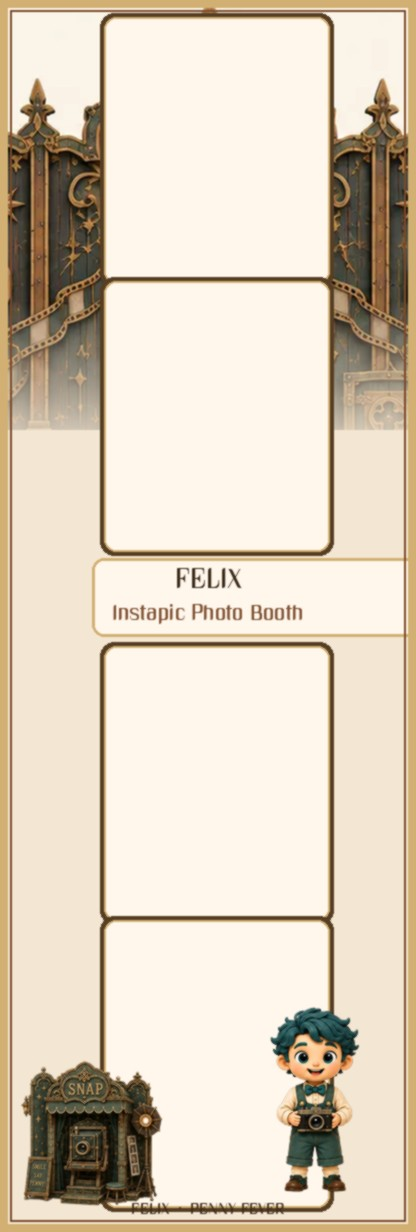
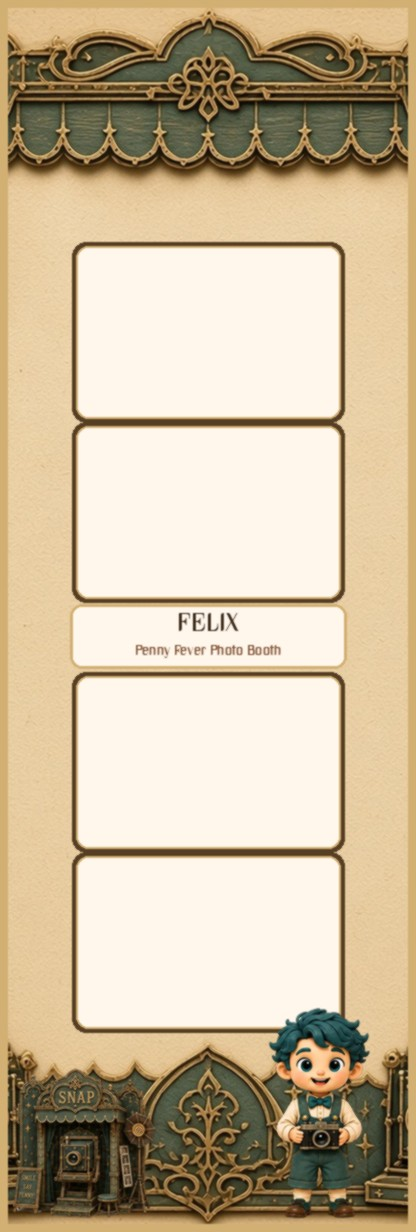
Penny Fever: one Felix set, game paper, paper player
Skip the 11-set picker so the booth loads one SNAP background. Souvenir strips sit on a Felix-game paper. Oliver the paper player fills a whole session without a camera (button or ?paper=1).

diff --git a/penny-fever/paper-games/workshop/felix-booth.js b/penny-fever/paper-games/workshop/felix-booth.js
@@ -16,7 +16,7 @@
     ERROR: "ERROR",
   };
 
-  let FREE_BGS = ["pf-felix", "pf-iris", "pf-aura"];
+  let FREE_BGS = ["pf-felix"];
   let carnivalSets = [];
   const carnivalById = Object.create(null);
   function carnivalSpec(id) { return carnivalById[id] || null; }
@@ -29,6 +29,8 @@
     return (spec && spec.strip) || ("backgrounds/carnival/" + id + ".jpg");
   }
   const TRY_SAMPLE_ID = "pf-felix";
+  const boothParams = new URLSearchParams(location.search);
+  const wantPaperPlayer = boothParams.has("paper") || boothParams.get("bot") === "1";
   // Felix strip layout's left column on the 784×1186 design grid.
   const STRIP_SLOTS_LEFT = [
     [100, 18, 208, 252],
@@ -89,6 +91,30 @@
   }
   // Default strip slot geometry at 416×1232.
   const DEFAULT_SLOT_BOXES = slotsForStripSize(SLOT_REF.w, SLOT_REF.h);
+
+  function slotBoxesFor(bg, W, H) {
+    const spec = (bg && carnivalSpec(bg.id)) || bg || {};
+    const slots = spec.slots || (bg && bg.slots);
+    if (Array.isArray(slots) && slots.length === 4) {
+      const rw = Number((spec.slotRef && spec.slotRef.w) || (bg && bg.slotRef && bg.slotRef.w) || SLOT_REF.w) || SLOT_REF.w;
+      const rh = Number((spec.slotRef && spec.slotRef.h) || (bg && bg.slotRef && bg.slotRef.h) || SLOT_REF.h) || SLOT_REF.h;
+      const sx = W / rw;
+      const sy = H / rh;
+      return slots.map((b) => {
+        const x = Array.isArray(b) ? Number(b[0]) : Number(b.x);
+        const y = Array.isArray(b) ? Number(b[1]) : Number(b.y);
+        const w = Array.isArray(b) ? Number(b[2]) : Number(b.w);
+        const h = Array.isArray(b) ? Number(b[3]) : Number(b.h);
+        return {
+          x: Math.round(x * sx),
+          y: Math.round(y * sy),
+          w: Math.max(1, Math.round(w * sx)),
+          h: Math.max(1, Math.round(h * sy)),
+        };
+      });
+    }
+    return slotsForStripSize(W, H);
+  }
 
   const screens = [...document.querySelectorAll(".screen")];
   const videoLayer = document.getElementById("video-layer");
@@ -478,7 +504,7 @@
   function applyTemplateSlotCss(naturalW, naturalH) {
     const refW = naturalW || (templateBackground && templateBackground.naturalWidth) || slotRef.w || SLOT_REF.w;
     const refH = naturalH || (templateBackground && templateBackground.naturalHeight) || slotRef.h || SLOT_REF.h;
-    const boxes = slotsForStripSize(refW, refH);
+    const boxes = slotBoxesFor(currentBackground, refW, refH);
     slotBoxes = boxes;
     slotRef = { w: refW, h: refH };
     boxes.forEach((box, i) => {
@@ -529,6 +555,10 @@
     if (carnivalPlate) carnivalPlate.hidden = !host;
     if (carnivalStage) carnivalStage.hidden = !wallSrc;
     if (boothStage) boothStage.classList.toggle("carnival-live", Boolean(wallSrc));
+    const paper = (bg && bg.paper) || (spec && spec.paper) || "backgrounds/carnival/paper/felix-game-paper.jpg";
+    document.querySelectorAll(".strip-on-paper").forEach((el) => {
+      el.style.backgroundImage = "url('" + paper + "')";
+    });
   }
 
   function selectBackground(bg) {
@@ -565,6 +595,10 @@
       src: spec.strip || (img && img.dataset.fullSrc) || bgFull(id),
       liveWall: spec.liveWall || "",
       hostArt: spec.hostArt || "",
+      paper: spec.paper || "",
+      paperPlayer: spec.paperPlayer || [],
+      slots: spec.slots,
+      slotRef: spec.slotRef,
       element: card,
       locked: card.classList.contains("is-locked"),
     };
@@ -653,7 +687,7 @@
       applyTemplateSlotCss();
     } catch (_) {}
     try {
-      const payload = await fetch("backgrounds/carnival-sets.json?v=carnival-2").then((r) => r.json());
+      const payload = await fetch("backgrounds/carnival-sets.json?v=carnival-3").then((r) => r.json());
       carnivalSets = Array.isArray(payload.sets) ? payload.sets : [];
       Object.keys(carnivalById).forEach((key) => { delete carnivalById[key]; });
       carnivalSets.forEach((row) => {
@@ -735,19 +769,62 @@
 
   const backgroundsReady = loadLayoutAndBackgrounds();
 
+  async function usePaperPlayer() {
+    hideCameraEnable();
+    hideNoCamera();
+    stopLiveAutoSnapTimer();
+    clearCaptureSequenceTimers();
+    hideLiveCaptureCues();
+    isCaptureInProgress = true;
+    cameraAvailable = false;
+    const spec = currentBackground || sampleBackground();
+    const n = isTrySession ? 2 : 4;
+    const list = (spec.paperPlayer && spec.paperPlayer.length ? spec.paperPlayer : sampleBackground().paperPlayer).slice(0, n);
+    try {
+      const portraits = await Promise.all(
+        list.map((src) =>
+          loadImage(src).then((img) => coverCropToCanvas(img, FREEZE_PORTRAIT.w, FREEZE_PORTRAIT.h).toDataURL("image/jpeg", 0.9))
+        )
+      );
+      capturedPhotos = [null, null, null, null];
+      portraits.forEach((url, i) => {
+        capturedPhotos[i] = url;
+      });
+      currentPoseIndex = n - 1;
+      isCaptureInProgress = false;
+      updateTemplateSlots();
+      if (isTrySession) showScreen(Screen.PRINT);
+      else {
+        reviewMode = true;
+        selectedSlotIndex = 0;
+        showScreen(Screen.REVIEW);
+      }
+      buildStrip().then(applyCompositeToPreviews).catch(() => {});
+    } catch (err) {
+      isCaptureInProgress = false;
+      showNoCamera("Paper player could not load. Try again.");
+    }
+  }
+
   function sampleBackground() {
-    const hit = backgrounds.find((bg) => bg.id === TRY_SAMPLE_ID && !bg.locked);
-    if (hit) return hit;
-    const free = backgrounds.find((bg) => !bg.locked);
     const spec = carnivalSpec(TRY_SAMPLE_ID) || {};
-    return free || {
+    return {
       id: TRY_SAMPLE_ID,
       host: spec.host || "Felix",
-      title: spec.title || "Instapic Photo Booth",
-      poses: 4,
+      title: spec.title || "Penny Fever Photo Booth",
+      poses: isTrySession ? 2 : 4,
       src: spec.strip || bgFull(TRY_SAMPLE_ID),
-      liveWall: spec.liveWall || "",
-      hostArt: spec.hostArt || "",
+      liveWall: spec.liveWall || "backgrounds/carnival/live/pf-felix-wall.jpg",
+      hostArt: spec.hostArt || "../../assets/restyle/scene-turnarounds-2026-09-09/vendors/felix/front.webp",
+      paper: spec.paper || "backgrounds/carnival/paper/felix-game-paper.jpg",
+      paperPlayer: spec.paperPlayer || [
+        "backgrounds/carnival/paper-player/pose-1.jpg",
+        "backgrounds/carnival/paper-player/pose-2.jpg",
+        "backgrounds/carnival/paper-player/pose-3.jpg",
+        "backgrounds/carnival/paper-player/pose-4.jpg",
+      ],
+      slots: spec.slots,
+      slotRef: spec.slotRef,
       element: null,
       locked: false,
     };
@@ -762,19 +839,13 @@
     totalPoses = 4;
     const requested = String(code || localSessionCode || requestedGameCode || "").trim().toUpperCase();
     localSessionCode = /^PF-[A-HJ-NP-Z]{6}$/.test(requested) && findGameFile(requested) ? requested : "";
-    // Issue the separate game code when the paid game session starts, then
-    // attach the finished strip to this same file on the DIGITAL screen.
     prepareGameCode();
     bonusState = "idle";
     bonusSessionKey = String(Date.now());
     resetPhotoState();
-    const ordered = [
-      ...FREE_BGS.filter((id) => allBackgroundIds.includes(id)),
-      ...allBackgroundIds.filter((id) => !isFreeBg(id)),
-    ];
-    rebuildBackgroundGrid(ordered.length ? ordered : FREE_BGS.slice());
+    selectBackground(sampleBackground());
     updateBonusLinks();
-    showScreen(Screen.BACKGROUNDS);
+    showScreen(Screen.LIVE);
   }
 
   async function startTrySession() {
@@ -787,11 +858,6 @@
     localSessionCode = "";
     bonusState = "idle";
     resetPhotoState();
-    const ordered = [
-      ...FREE_BGS.filter((id) => allBackgroundIds.includes(id)),
-      ...allBackgroundIds.filter((id) => !isFreeBg(id)),
-    ];
-    rebuildBackgroundGrid(ordered.length ? ordered : FREE_BGS.slice());
     selectBackground(sampleBackground());
     updateBonusLinks();
     showScreen(Screen.LIVE);
@@ -1257,7 +1323,7 @@
     if (noCameraSubtitle) {
       noCameraSubtitle.textContent =
         detailMsg ||
-        "Pick a photo from your phone, or use a cream silhouette so the booth still finishes.";
+        "Pick a photo from your phone, or use the paper player so the booth still finishes.";
     }
     if (noCameraErrorEl) {
       noCameraErrorEl.textContent = cameraErrorName ? "Error: " + cameraErrorName : "";
@@ -1575,7 +1641,7 @@
     const ctx = out.getContext("2d");
     ctx.drawImage(bg, 0, 0);
 
-    const boxes = slotsForStripSize(out.width, out.height);
+    const boxes = slotBoxesFor(currentBackground, out.width, out.height);
     slotBoxes = boxes;
     slotRef = { w: out.width, h: out.height };
     for (let i = 0; i < 4; i++) {
@@ -1867,6 +1933,10 @@
     if (name !== Screen.BACKGROUNDS) hideUnlockConfirm();
     if (name === Screen.LIVE) {
       paintCarnivalSet(currentBackground || sampleBackground());
+      if (wantPaperPlayer && !capturedPhotos.some(Boolean) && !isCaptureInProgress) {
+        usePaperPlayer();
+        return;
+      }
       startCamera().then((ok) => {
         if (ok && !isCaptureInProgress) {
           hideLiveCaptureCues();
@@ -2161,9 +2231,8 @@
       requestCameraFromGesture();
       return;
     }
-    if (action === "use-silhouette") {
-      isCaptureInProgress = true;
-      acceptPhotoDataUrl(makeSilhouetteDataUrl(FREEZE_PORTRAIT.w, FREEZE_PORTRAIT.h));
+    if (action === "use-silhouette" || action === "use-paper-player") {
+      usePaperPlayer();
       return;
     }
     if (action === "retake-photo") {

diff --git a/penny-fever/paper-games/workshop/felix-booth.html b/penny-fever/paper-games/workshop/felix-booth.html
@@ -13,7 +13,7 @@
   <link rel="stylesheet" href="pay_packages_patch.css?v=cam-portrait-1">
   <link rel="stylesheet" href="prepaid_pattern_patch.css?v=cam-portrait-1">
   <link rel="stylesheet" href="event_portal_patch.css?v=cam-portrait-1">
-  <link rel="stylesheet" href="felix-booth.css?v=carnival-2">
+  <link rel="stylesheet" href="felix-booth.css?v=carnival-3">
 </head>
 <body>
   <div id="turn-phone">
@@ -306,10 +306,15 @@
             <div id="cameraEnablePanel" class="no-camera-panel camera-enable-panel hidden">
               <div class="no-camera-card">
                 <h1 class="title-main">Turn on camera</h1>
-                <p class="subtitle" id="cameraEnableHint">Phones need a tap before the camera opens. Allow the permission when asked — we wait for your answer.</p>
+                <p class="subtitle" id="cameraEnableHint">Phones need a tap before the camera opens. Bots and testers can use the paper player.</p>
                 <div class="button-row">
                   <button class="btn btn-primary btn-big" data-action="enable-camera" type="button" id="enableCameraBtn">
                     TURN ON CAMERA
+                  </button>
+                </div>
+                <div class="button-row">
+                  <button class="btn btn-secondary btn-big" data-action="use-paper-player" type="button" id="enablePaperPlayerBtn">
+                    USE PAPER PLAYER
                   </button>
                 </div>
                 <div class="button-row">
@@ -323,7 +328,7 @@
             <div id="noCameraPanel" class="no-camera-panel hidden">
               <div class="no-camera-card">
                 <h1 class="title-main" id="noCameraTitle">Camera unavailable</h1>
-                <p class="subtitle" id="noCameraSubtitle">Pick a photo from your phone, or use a cream silhouette so the booth still finishes.</p>
+                <p class="subtitle" id="noCameraSubtitle">Pick a photo from your phone, or use the paper player so the booth still finishes.</p>
                 <p class="subtitle small no-camera-error hidden" id="noCameraError"></p>
                 <div class="button-row">
                   <button class="btn btn-primary btn-big" data-action="retry-camera" type="button">
@@ -337,8 +342,8 @@
                   </label>
                 </div>
                 <div class="button-row">
-                  <button class="btn btn-secondary btn-big" data-action="use-silhouette" type="button">
-                    USE CREAM SILHOUETTE
+                  <button class="btn btn-primary btn-big" data-action="use-paper-player" type="button">
+                    USE PAPER PLAYER
                   </button>
                 </div>
                 <p class="subtitle small" id="noCameraPoseHint">Pose 1 of 2</p>
@@ -355,7 +360,7 @@
             <h1 class="title-main">Review Your Photo Strip</h1>
             <p class="subtitle">Tap a photo to select it. Retake or keep.</p>
             <div class="review-layout">
-              <div class="review-strip-wrap">
+              <div class="review-strip-wrap strip-on-paper">
                 <img id="reviewStripPreview" class="strip-composite-preview" alt="Your photo strip">
                 <div class="thumbs-title">Your photos — tap to select</div>
                 <div class="pose-thumb-row">
@@ -397,7 +402,7 @@
           <div class="screen-content">
             <h1 class="title-main">Ready to Print</h1>
             <p class="subtitle">Checkout your photo strip below!</p>
-            <div class="background-preview-frame">
+            <div class="background-preview-frame strip-on-paper">
               <img id="finalStripPreview" alt="Final photo strip">
             </div>
             <div class="instapic-print-preview-note" hidden>
@@ -439,7 +444,7 @@
             </div>
 
             <div class="output-layout">
-              <div class="background-preview-frame">
+              <div class="background-preview-frame strip-on-paper">
                 <img id="digitalStripPreview" alt="Photo strip preview">
               </div>
               <div class="output-options">
@@ -508,7 +513,7 @@
       </div>
     </div>
   </div>
-  <script src="felix-booth.js?v=carnival-2"></script>
-  <script src="felix-booth-text.js?v=carnival-2"></script>
+  <script src="felix-booth.js?v=carnival-3"></script>
+  <script src="felix-booth-text.js?v=carnival-3"></script>
 </body>
 </html>

diff --git a/penny-fever/paper-games/workshop/felix-booth.css b/penny-fever/paper-games/workshop/felix-booth.css
@@ -1574,3 +1574,20 @@ section.screen.active[data-screen="BACKGROUNDS"] .background-card .bg-set-title 
   font-size: 0.82rem;
   font-weight: 600;
 }
+
+.strip-on-paper {
+  background-image: url("backgrounds/carnival/paper/felix-game-paper.jpg");
+  background-size: cover;
+  background-position: center;
+  padding: 1.35rem 1.1rem !important;
+  border-radius: 28px;
+  box-shadow:
+    0 0 0 6px #d2b073,
+    0 18px 36px rgba(40, 18, 6, 0.35);
+}
+.strip-on-paper #reviewStripPreview,
+.strip-on-paper #finalStripPreview,
+.strip-on-paper #digitalStripPreview,
+.strip-on-paper .strip-composite-preview {
+  box-shadow: 0 10px 24px rgba(40, 18, 6, 0.28) !important;
+}

diff --git a/penny-fever/paper-games/workshop/felix-booth-text.js b/penny-fever/paper-games/workshop/felix-booth-text.js
@@ -1,5 +1,5 @@
 (function () {
-  const SRC = "felix-booth-text.json?v=carnival-2";
+  const SRC = "felix-booth-text.json?v=carnival-3";
 
   function familyFromFile(file) {
     return String(file || "").replace(/\.[a-z0-9]+$/i, "") || "sans-serif";
